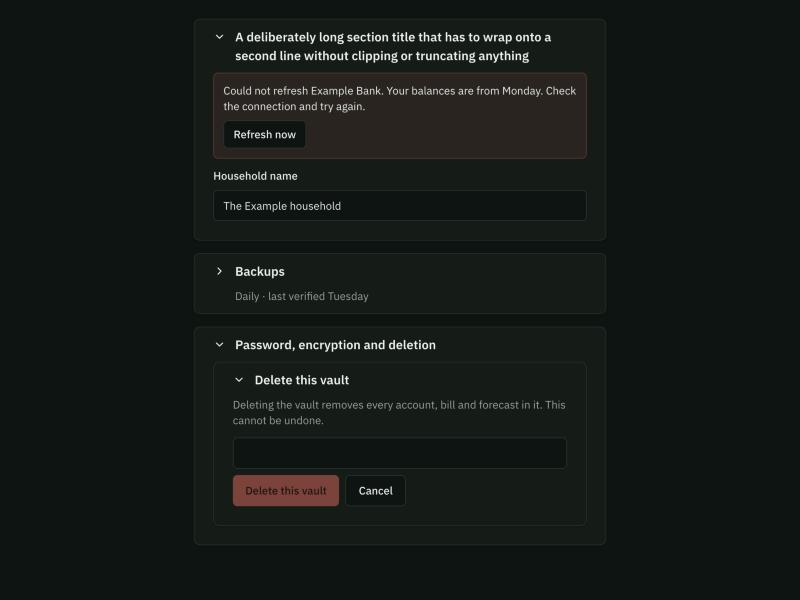
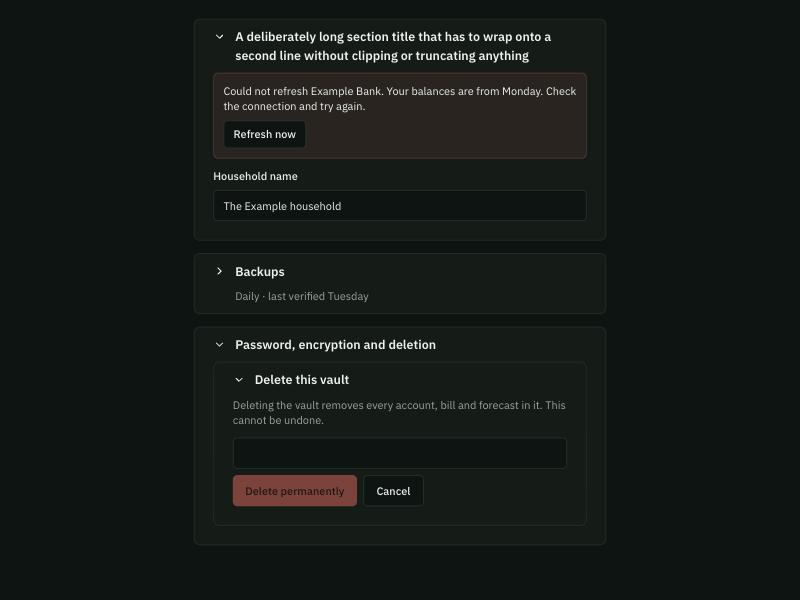
personal-cfo-4d8.38: Cancel returns focus after the re-render when the start control was unmounted (04b F1), a test for that shape, the usage line, and the confirm button renamed (N1)

diff --git a/apps/desktop/src/components/ui/disclosure.test.tsx b/apps/desktop/src/components/ui/disclosure.test.tsx
@@ -1,5 +1,5 @@
 import { cleanup, fireEvent, render, screen, within } from "@testing-library/react";
-import { useRef, useState } from "react";
+import { useLayoutEffect, useRef, useState } from "react";
 import { afterEach, describe, expect, it, vi } from "vitest";
 
 import { Disclosure, usePinDisclosures } from "@/components/ui/disclosure";
@@ -266,7 +266,55 @@ function DeleteSection({ busy = false }: { busy?: boolean }) {
   );
 }
 
+/// The other real shape: the start control is REPLACED by the confirmation, so it is not mounted
+/// while confirming and focus can only go back to it after the re-render.
+function ReplacingDeleteSection() {
+  const [confirming, setConfirming] = useState(false);
+  const [returnFocus, setReturnFocus] = useState(false);
+  const startRef = useRef<HTMLButtonElement>(null);
+  usePinDisclosures(confirming);
+  useLayoutEffect(() => {
+    if (returnFocus && !confirming) {
+      startRef.current?.focus();
+      setReturnFocus(false);
+    }
+  }, [returnFocus, confirming]);
+  return confirming ? (
+    <div role="group" aria-label="Confirm delete">
+      <button
+        type="button"
+        onClick={() => {
+          setConfirming(false);
+          setReturnFocus(true);
+        }}
+      >
+        Cancel
+      </button>
+    </div>
+  ) : (
+    <button ref={startRef} type="button" onClick={() => setConfirming(true)}>
+      Delete vault
+    </button>
+  );
+}
+
 describe("Disclosure pinning", () => {
+  it("returns focus to a start control that was unmounted while confirming", () => {
+    render(
+      <Disclosure title="Section" defaultOpen>
+        <ReplacingDeleteSection />
+      </Disclosure>,
+    );
+    fireEvent.click(screen.getByRole("button", { name: "Delete vault" }));
+    expect(screen.queryByRole("button", { name: "Delete vault" })).toBeNull();
+    screen.getByRole("button", { name: "Cancel" }).focus();
+    fireEvent.click(screen.getByRole("button", { name: "Cancel" }));
+
+    expect(screen.getByRole("button", { name: "Delete vault" })).toHaveFocus();
+    expect(trigger("Section")).toHaveAttribute("aria-expanded", "true");
+    expect(trigger("Section")).not.toHaveAttribute("aria-disabled");
+  });
+
   it("does not request a collapse while pinned", () => {
     const onOpenChange = vi.fn();
     render(

diff --git a/apps/desktop/src/dev/disclosure-example.tsx b/apps/desktop/src/dev/disclosure-example.tsx
@@ -2,7 +2,7 @@
 import "@fontsource-variable/ibm-plex-sans/index.css";
 import "../styles/globals.css";
 
-import React, { useRef, useState } from "react";
+import React, { useLayoutEffect, useRef, useState } from "react";
 import ReactDOM from "react-dom/client";
 
 import { Button } from "@/components/ui/button";
@@ -21,7 +21,16 @@ function DeleteConfirm() {
   const [confirming, setConfirming] = useState(false);
   const [typed, setTyped] = useState("");
   const startRef = useRef<HTMLButtonElement>(null);
+  const [returnFocus, setReturnFocus] = useState(false);
   usePinDisclosures(confirming);
+  // The start button is not mounted while confirming, so focus can only go back to it AFTER the
+  // re-render that brings it back; focusing inside the Cancel handler would find a null ref.
+  useLayoutEffect(() => {
+    if (returnFocus && !confirming) {
+      startRef.current?.focus();
+      setReturnFocus(false);
+    }
+  }, [returnFocus, confirming]);
   return (
     <div className="flex flex-col gap-3">
       <p className="text-sm text-muted-foreground">
@@ -36,14 +45,14 @@ function DeleteConfirm() {
           />
           <div className="flex gap-2">
             <Button variant="destructive" disabled={typed !== "Example vault"}>
-              Delete this vault
+              Delete permanently
             </Button>
             <Button
               variant="outline"
               onClick={() => {
                 setConfirming(false);
                 setTyped("");
-                startRef.current?.focus();
+                setReturnFocus(true);
               }}
             >
               Cancel

diff --git a/docs/design-system/evidence/personal-cfo-4d8.38/README.md b/docs/design-system/evidence/personal-cfo-4d8.38/README.md
@@ -20,7 +20,9 @@ semibold, card radius 8px. Matches the A2 numbers in `settings-layout-review.md`
 - The collapsed body is `hidden` and `inert`; the Tab list excludes it.
 - The error and exactly one Refresh now stay visible and reachable while collapsed.
 - While a delete confirmation is open both ancestor triggers report `aria-disabled="true"`, keep
-  `tabindex` 0 and ignore a click; after Cancel both are enabled and still open.
+  `tabindex` 0 and ignore a click; after Cancel both are enabled and still open, and focus is on
+  the start button (which is unmounted while confirming; focus is set from a layout effect after
+  the re-render, found by 04b's review).
 
 04b's automated accessibility-tree check on the built page is the runtime gate for this bead; the
 owner's VoiceOver run is part of `personal-cfo-4d8.39`. No production-AA claim is made: the dark

diff --git a/docs/agent/FRONTEND.md b/docs/agent/FRONTEND.md
@@ -416,7 +416,9 @@ How to use it:
 - A component that owns a destructive confirmation calls `usePinDisclosures(active)` with `active`
   true while the confirmation is open, armed, or busy past the point of no return. Every enclosing
   disclosure stays open and its trigger turns `aria-disabled` (still focusable). The component's
-  own Cancel clears its state and returns focus to the control that opened it.
+  own Cancel clears its state and returns focus to the control that opened it. That control must
+  exist after the state change: when the confirmation replaces it, focus it from a layout effect
+  that runs after the re-render, not from the Cancel handler (the ref is still null there).
 - No expansion state is persisted by the component.
 
 | A2 contract | On `main` today |
